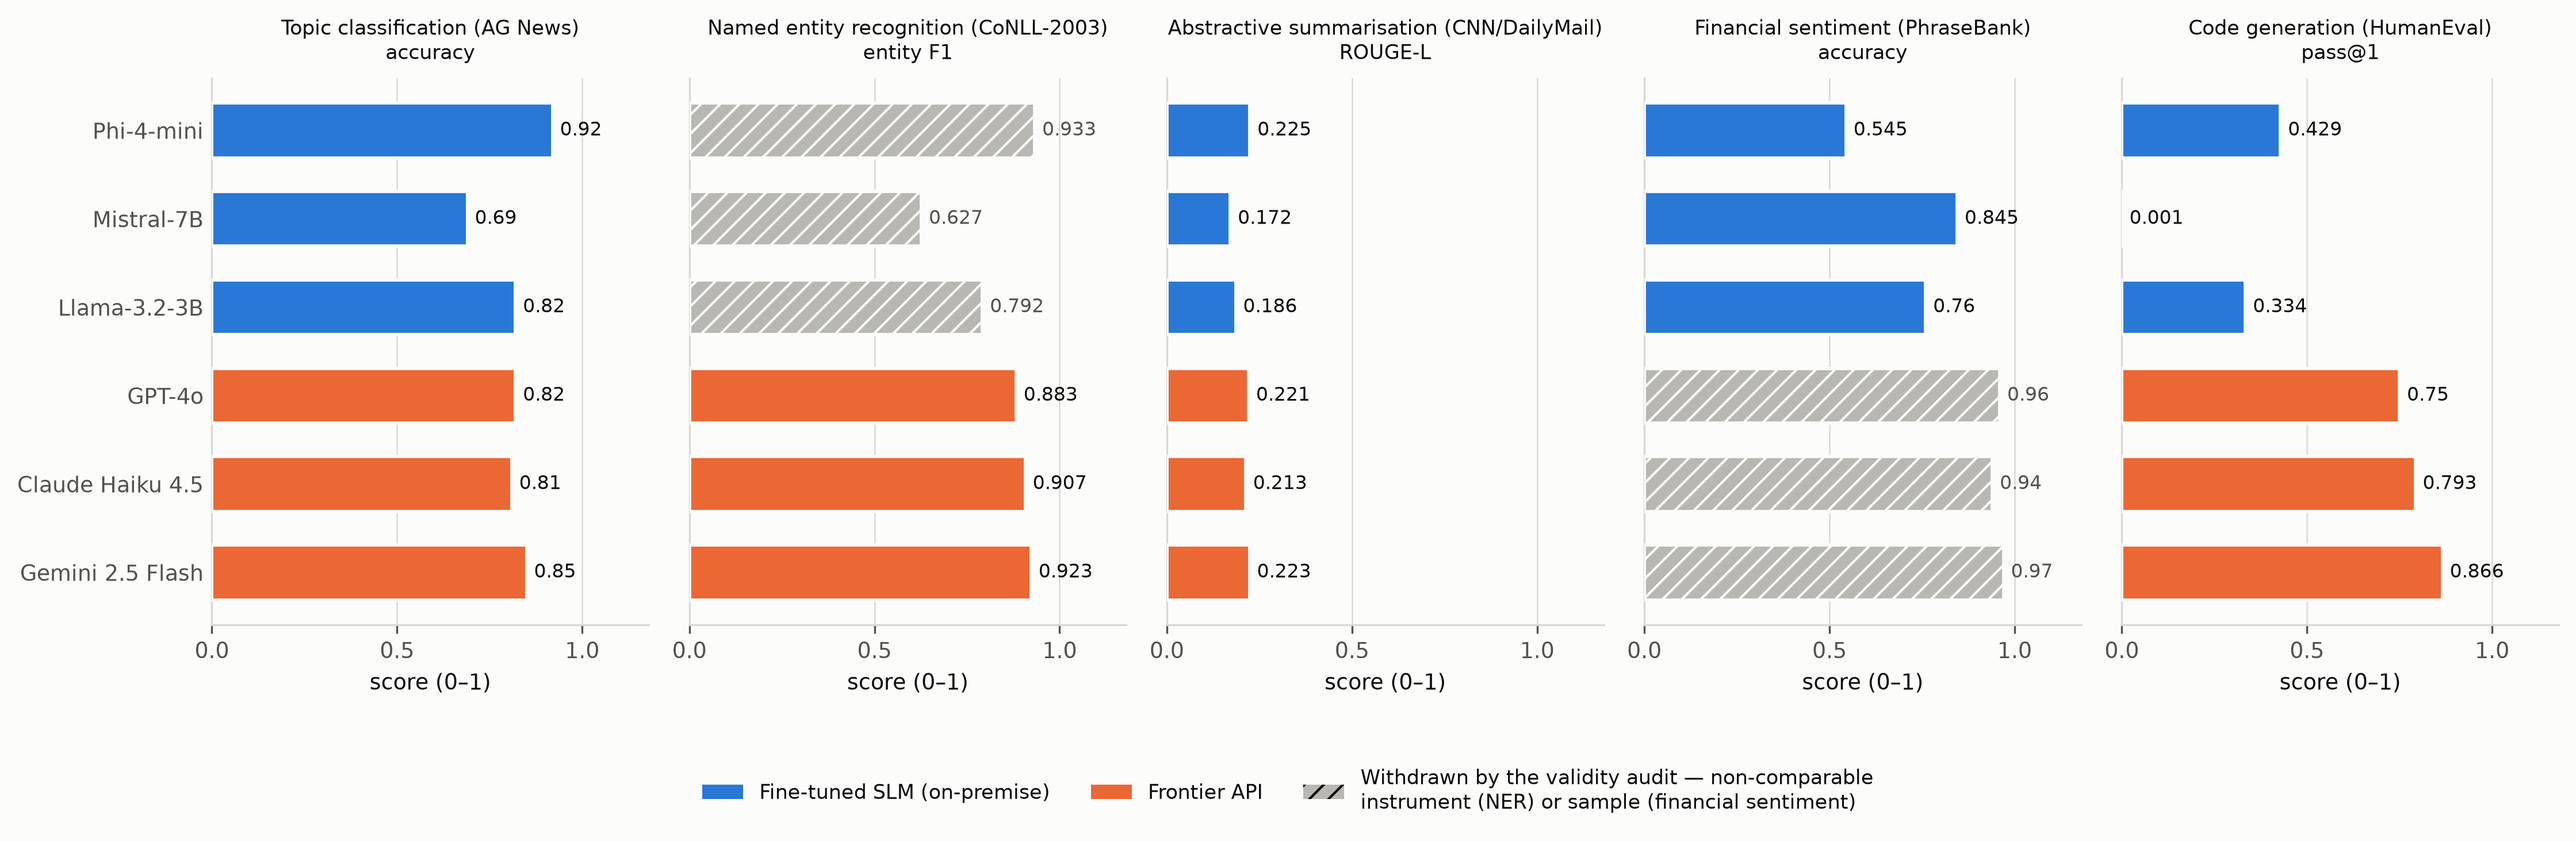
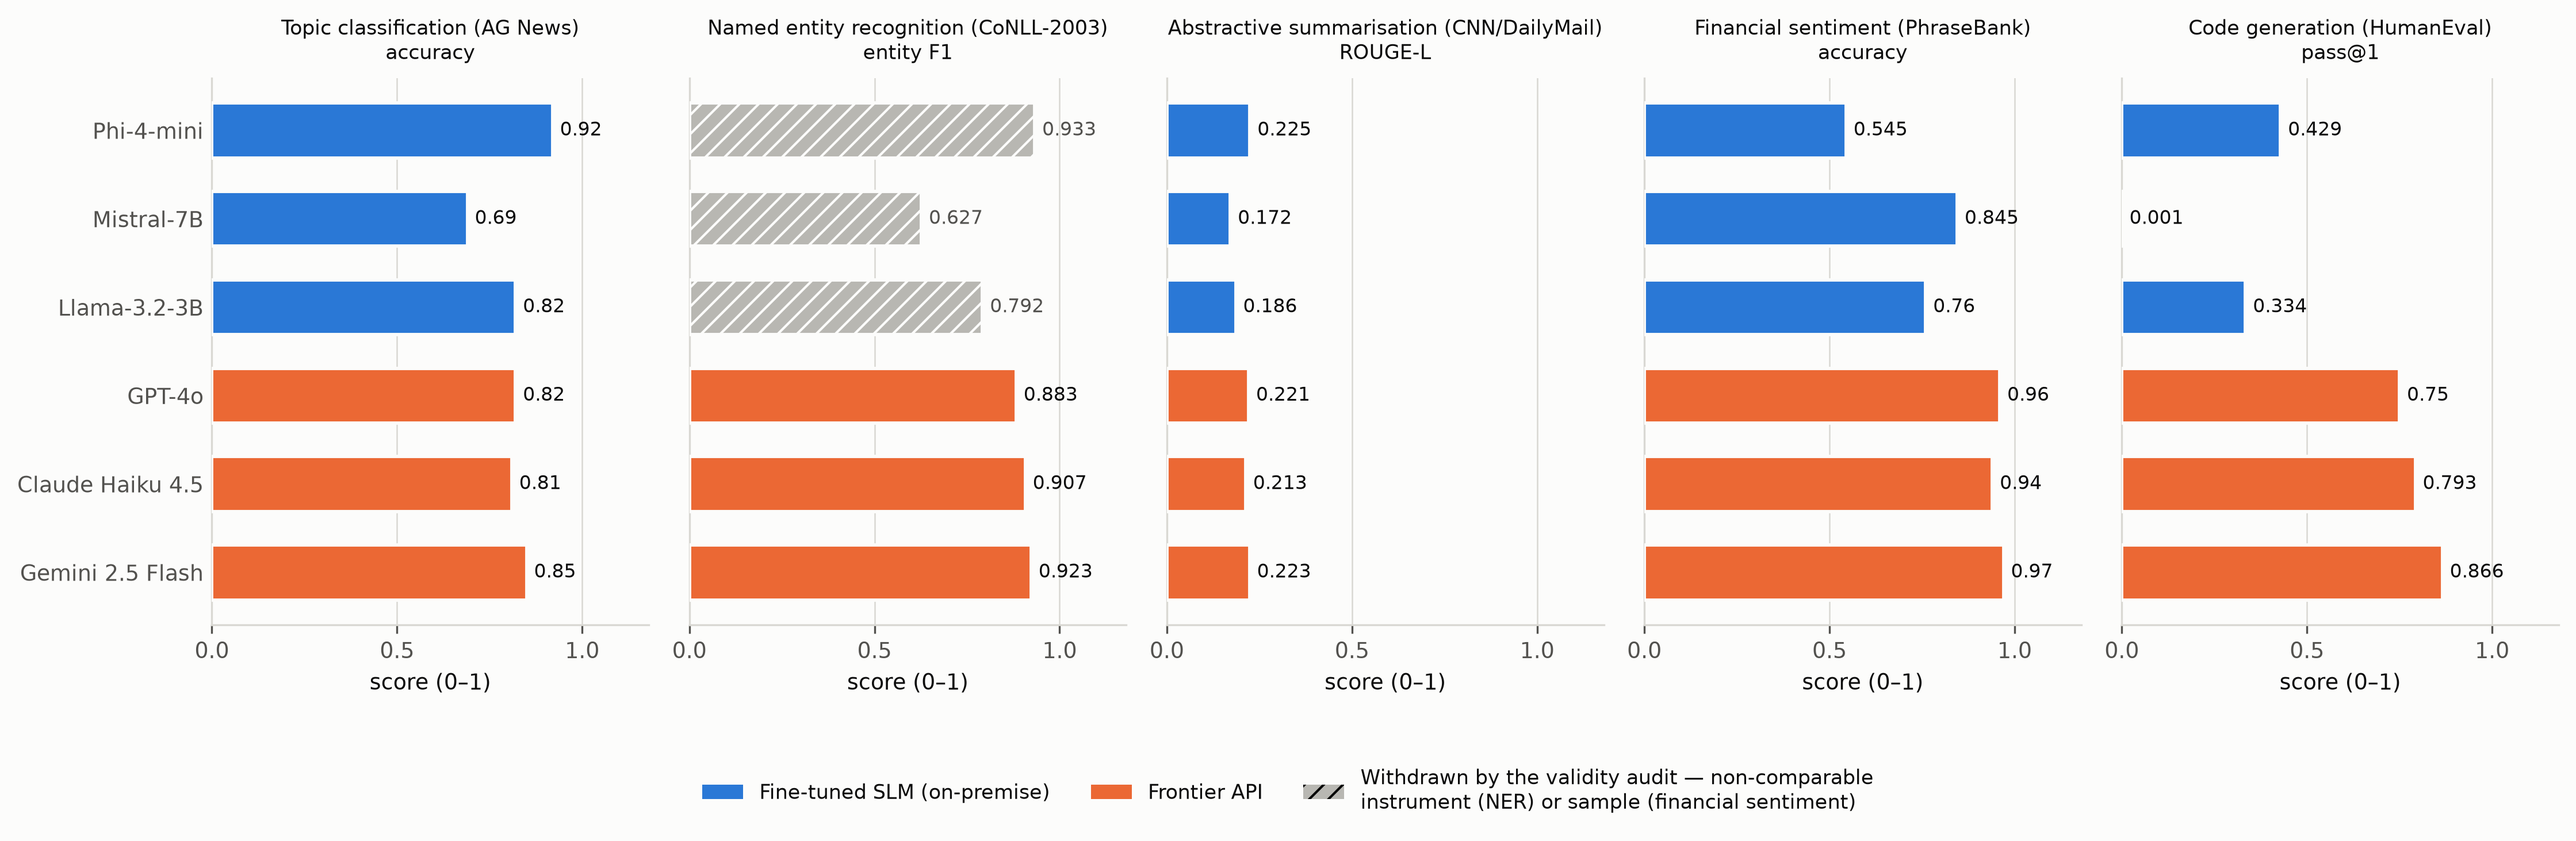
figures: financial sentiment is no longer withdrawn
The sampling defect that invalidated the financial sentiment comparison
has been corrected and the task re-measured on the seeded split, so its
API cells are plotted normally again. Only the self-hosted NER cells
remain hatched, pending re-evaluation under the corrected instrument.

Changed region(s): [[0.6207, 0.4306, 0.7758, 0.6152], [0.6207, 0.6459, 0.7758, 0.7382]]

diff --git a/results/make_figures.py b/results/make_figures.py
@@ -66,9 +66,11 @@ TASKS = ["classification", "ner", "summarization", "financial_sentiment", "code_
 # OPPOSITE arms, which is why the flags are per-cell rather than per-task:
 #   NER  — the self-hosted arm was scored with a non-comparable instrument
 #          (token overlap on tag strings); the API arm's entity-set F1 stands.
-#   FPB  — the API arm was drawn from a label-clustered file region (95%
-#          positive); the self-hosted arm's seeded-split scores stand.
-INVALID = {("ner", m) for m in SLMS} | {("financial_sentiment", m) for m in APIS}
+#   FPB  — the API arm was originally drawn from a label-clustered file
+#          region (95% positive). Corrected: the re-run samples the same
+#          seeded split as the self-hosted arm, so this task is no longer
+#          withdrawn and only the NER cells remain outstanding.
+INVALID = {("ner", m) for m in SLMS}
 
 # Wilson 95% confidence intervals, computed from the data rather than
 # hardcoded, so they track the CSVs through every re-run. A proportion and a
